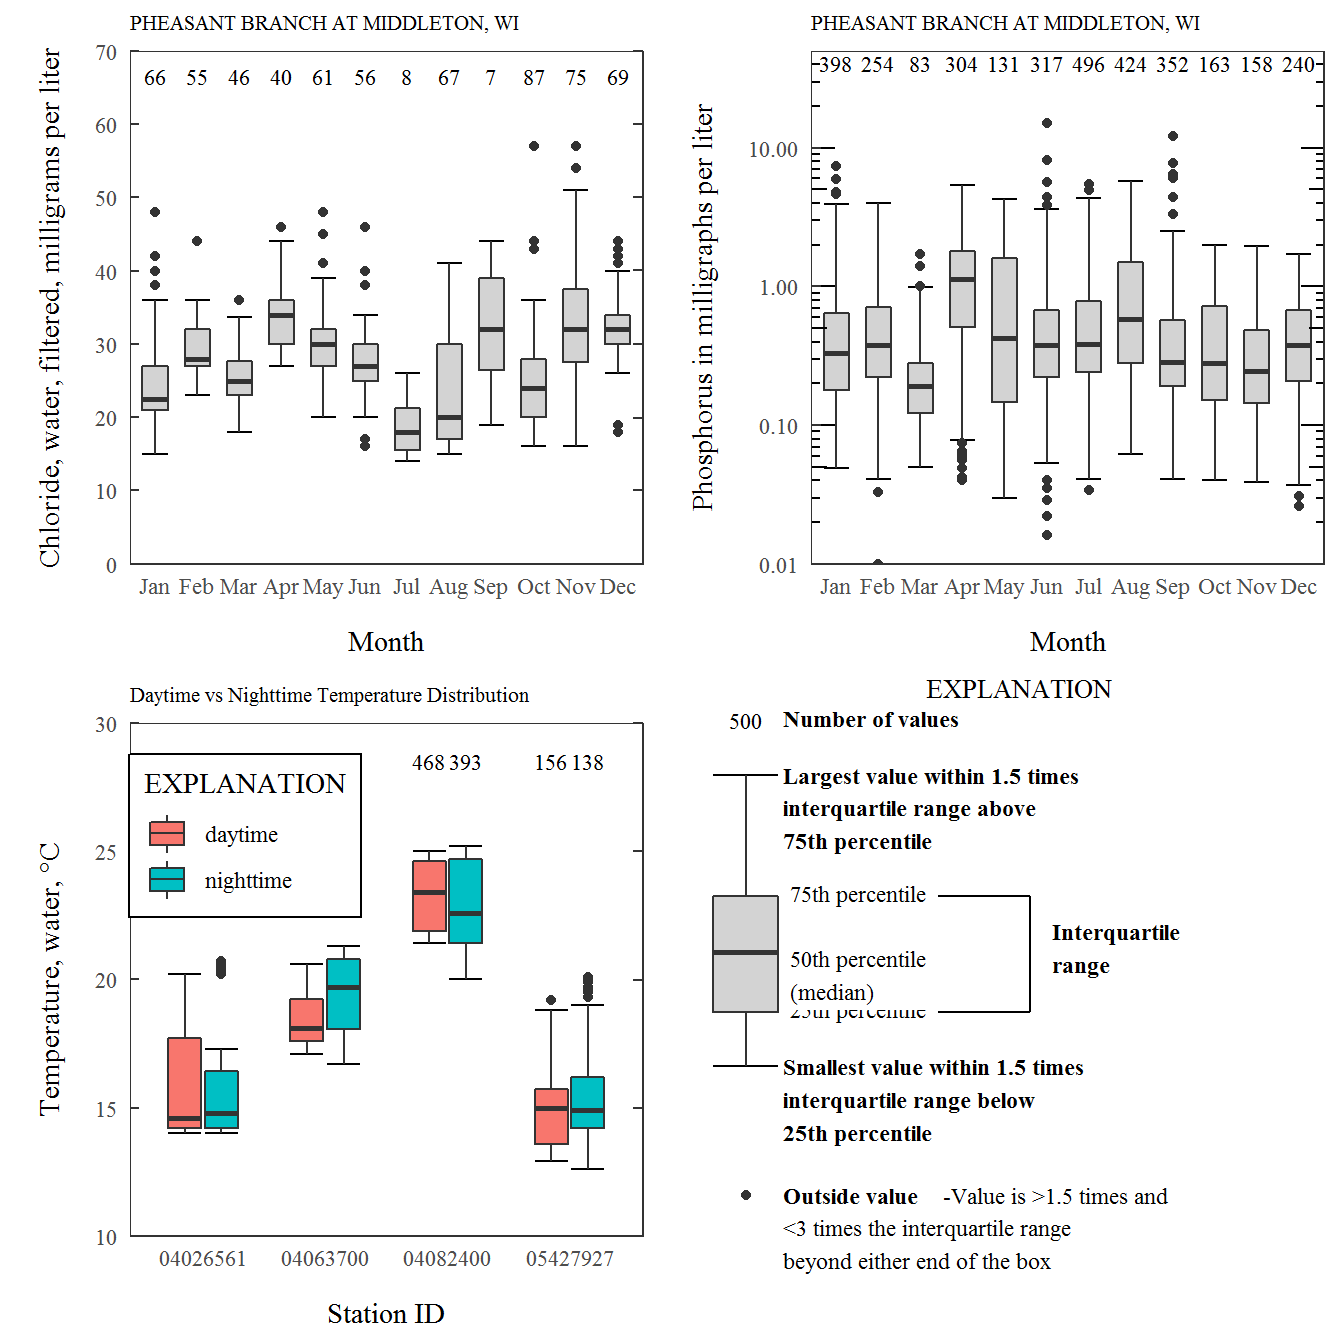
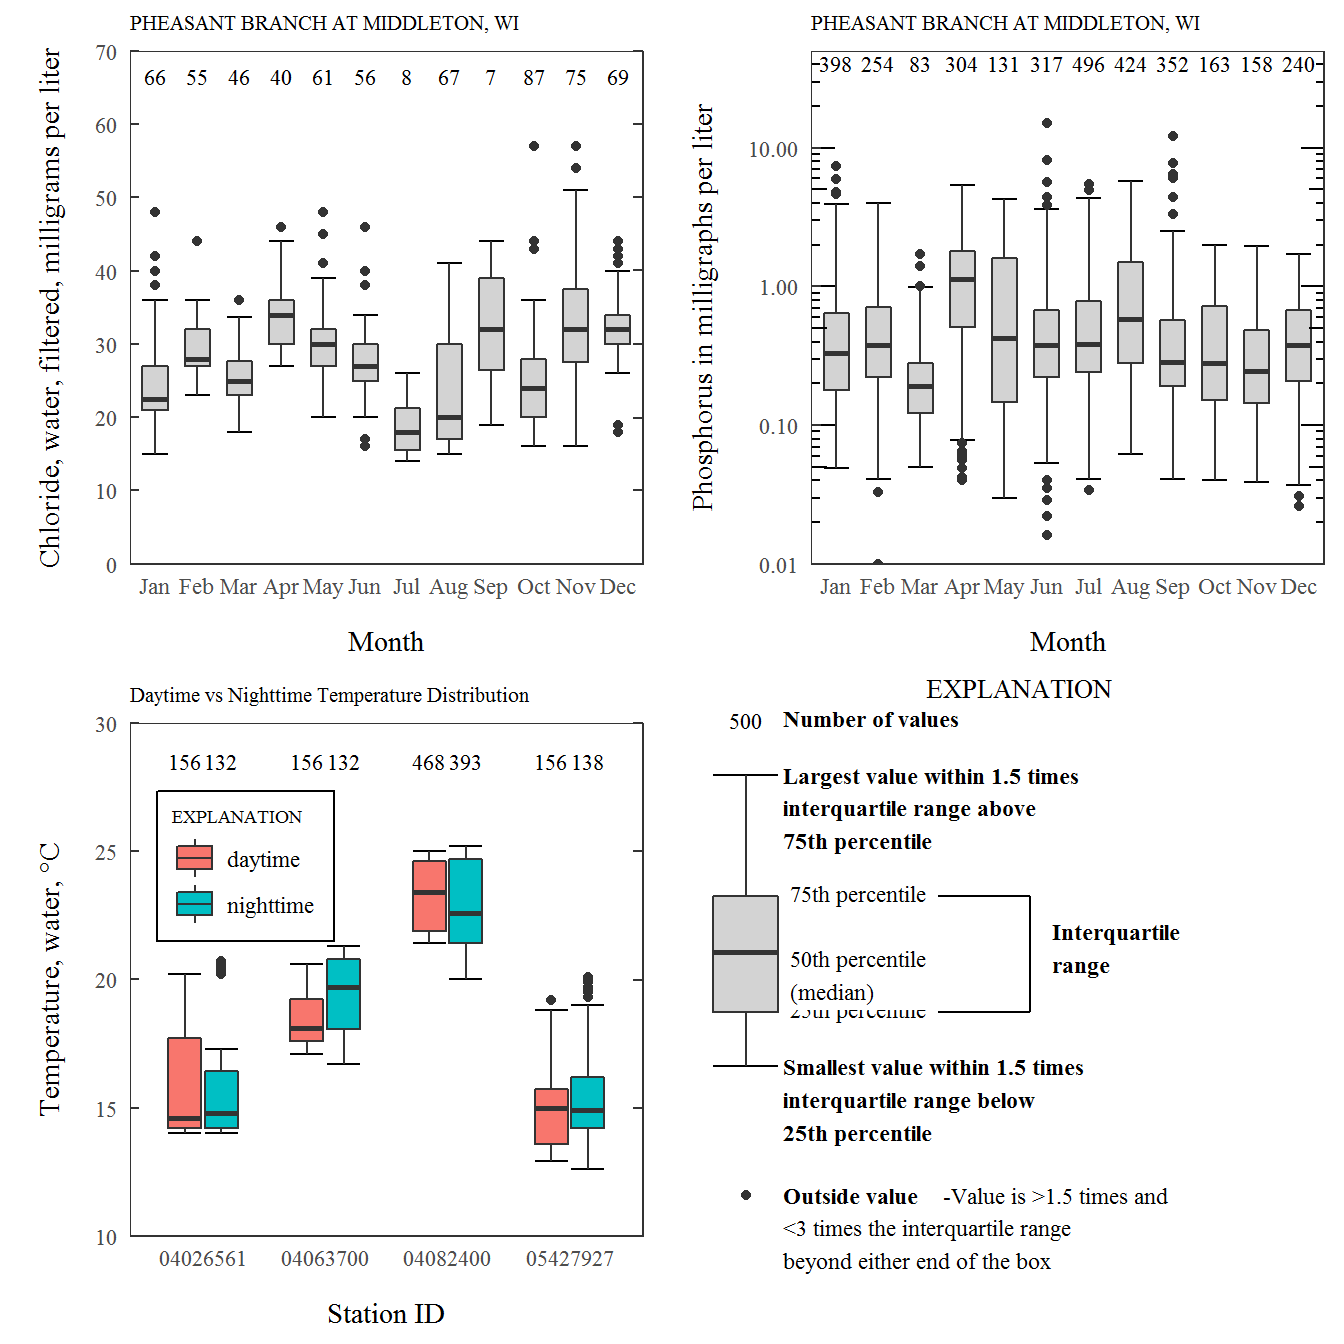
last style fiddle

Changed region(s): [[0.0938, 0.5625, 0.2812, 0.6875]]

diff --git a/content/boxplot_defs.md b/content/boxplot_defs.md
@@ -396,7 +396,8 @@ temperature_plot <- ggplot(data = temp_q_data,
   ylab(unescape_html(temperature_name)) +
   labs(title = "Daytime vs Nighttime Temperature Distribution") +
   scale_fill_discrete(name = "EXPLANATION") +
-  theme(legend.position = c(0.225, 0.78))
+  theme(legend.position = c(0.225, 0.72),
+        legend.title =  element_text(size = 7))
 
 plot_grid(chloride_plot, 
           phos_plot,
